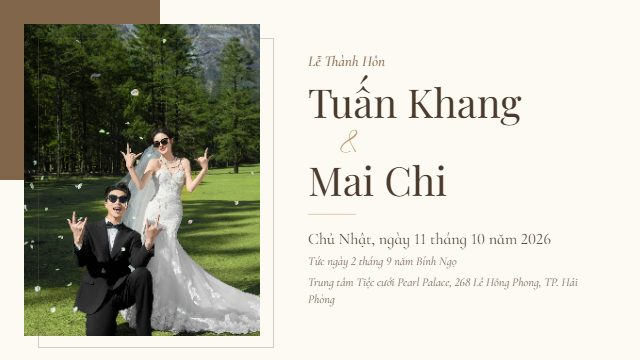
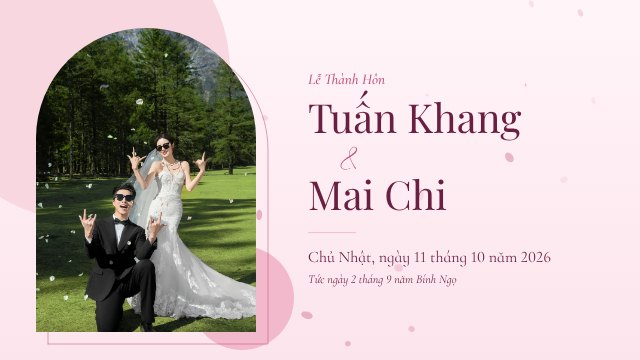
Slide cưới: mẫu "Mãi mãi về sau" đổi sang tông hồng, ảnh vòm bay vào, chữ bay vào, cánh hoa rơi
Claude-Session: https://claude.ai/code/session_01FJvBGnU4bpa9JAWDTxco5L

diff --git a/slide-cuoi/templates/romantic-blush/index.js b/slide-cuoi/templates/romantic-blush/index.js
@@ -1,17 +1,20 @@
-// Slide sân khấu "Mãi mãi về sau" (1280×720, tông be của romantic-blush): mỗi cảnh một bên
-// ảnh, một bên chữ, xen kẽ trái/phải. Từ thiệp chỉ lấy ảnh, họ tên, ngày cưới, chuyện tình —
-// không tên cha mẹ, không địa chỉ (khách đã ở tiệc); lời văn là của mẫu. Chỉ KHAI cảnh dưới
-// dạng dữ liệu (CX_SLIDE.scenes); vẽ/chạy/xuất là việc của engine + runtime + slide-export.js.
+// Slide sân khấu "Mãi mãi về sau" (1280×720, tông hồng): mỗi cảnh ảnh vòm cửa bay vào một bên,
+// chữ bay vào bên kia, xen kẽ trái/phải, cánh hoa rơi suốt slide. Từ thiệp chỉ lấy ảnh, họ tên,
+// ngày cưới, chuyện tình — không tên cha mẹ, không địa chỉ (khách đã ở tiệc); lời văn là của mẫu.
+// Chỉ KHAI cảnh (CX_SLIDE.scenes); vẽ/chạy/xuất là việc của engine + runtime + slide-export.js.
 
 (function () {
   const C = {
-    paper: "#FDFAF4",
-    surface: "#F7F1E7",
-    heading: "#4A3B2E",
-    body: "rgba(74, 59, 46, 0.88)",
-    accent: "#82664B",
-    gold: "#B8956A",
-    line: "rgba(107, 86, 68, 0.55)",
+    paper: "#FFF5F8",
+    paper2: "#FCE4EC",
+    surface: "#F8DCE5",
+    petal: "#F9D7E1",
+    blush: "#F2B8CB",
+    heading: "#6A1F40",
+    body: "rgba(84, 30, 56, 0.9)",
+    accent: "#C24F78",
+    rose: "#E58FAD",
+    line: "rgba(194, 79, 120, 0.7)",
   };
   const PLAY = '"Playfair Display", "Times New Roman", serif';
   const CORM = '"Cormorant Infant", "Times New Roman", serif';
@@ -85,11 +88,13 @@
     const scenes = [];
     const add = (sid, photo, blocks, opt = {}) => scenes.push(_scene(scenes.length, sid, photo, blocks, opt, L));
 
-    // Khối dùng lại nhiều lần.
-    const kicker = (text, n = 2) => ({ text, font: F.kicker, color: C.accent, lh: 1.2, anim: { k: "fade", d: d(n) } });
-    const title = (text, n = 3, font = F.title) => ({ text, font, color: C.heading, lh: 1.16, mt: 16, anim: { k: "up", d: d(n) } });
-    const rule = (n) => ({ line: true, w: 96, color: C.gold, mt: 28, anim: { k: "spread", d: d(n) } });
-    const para = (text, n, mt = 28, font = F.body) => ({ text, font, color: C.body, lh: 1.5, mt, anim: { k: "up", d: d(n) } });
+    // Khối dùng lại nhiều lần. Chữ bay vào một quãng ngắn từ phía cột chữ (from "in", _scene đổi
+    // thành left/right theo bên ảnh) — bay từ tận mép khung là chữ vắt ngang qua ảnh.
+    const fly = (n, dist = 140, t = 1.3) => ({ k: "fly", from: "in", dist, t, d: d(n) });
+    const kicker = (text, n = 2) => ({ text, font: F.kicker, color: C.accent, lh: 1.2, anim: fly(n, 90) });
+    const title = (text, n = 3, font = F.title) => ({ text, font, color: C.heading, lh: 1.16, mt: 16, anim: fly(n, 180, 1.5) });
+    const rule = (n) => ({ line: true, w: 96, color: C.rose, mt: 28, anim: { k: "spread", d: d(n) } });
+    const para = (text, n, mt = 28, font = F.body) => ({ text, font, color: C.body, lh: 1.5, mt, anim: fly(n, 80) });
     // Lời nói (cô dâu, chú rể, anh – em, gửi cha mẹ, cảm ơn): hiện bằng hiệu ứng đánh chữ.
     const say = (text, n, mt = 28) => ({ text, font: F.body, color: C.body, lh: 1.5, mt, anim: { k: "type", d: d(n) } });
     const sign = (text, n) => ({ text, font: F.sign, color: C.accent, lh: 1.2, mt: 28, anim: { k: "wipe", d: d(n) } });
@@ -101,14 +106,15 @@
     const date = cd
       ? `${_WEEKDAYS[cd.getDay()]}, ngày ${cd.getDate()} tháng ${cd.getMonth() + 1} năm ${cd.getFullYear()}`
       : "";
+    // Hai tên lần lượt bay vào từ mép phía chữ, hơi xoay rồi đứng lại; dấu & nở ra ở giữa.
     add("open", own(w.cover_image_url, fps.cover_image_url), [
       kicker(ceremonyName),
-      { text: G, font: F.names, color: C.heading, lh: 1.04, mt: 20, anim: { k: "up", d: d(3) } },
-      { text: "&", font: F.amp, color: C.gold, lh: 1, mt: 4, indent: 64, anim: { k: "fade", d: d(4) } },
-      { text: B, font: F.names, color: C.heading, lh: 1.04, mt: 4, anim: { k: "up", d: d(5) } },
-      rule(6),
-      date && { text: date, font: F.date, color: C.heading, lh: 1.3, mt: 28, anim: { k: "up", d: d(7) } },
-      w.ceremony_lunar && note(w.ceremony_lunar, 8),
+      { text: G, font: F.names, color: C.heading, lh: 1.04, mt: 20, anim: { k: "fly", from: "in", t: 1.6, rot: 6, d: d(3) } },
+      { text: "&", font: F.amp, color: C.accent, lh: 1, mt: 4, indent: 64, anim: { k: "zoom", s0: 2.4, d: d(8) } },
+      { text: B, font: F.names, color: C.heading, lh: 1.04, mt: 4, anim: { k: "fly", from: "in", t: 1.6, rot: -6, d: d(5) } },
+      rule(9),
+      date && { text: date, font: F.date, color: C.heading, lh: 1.3, mt: 28, anim: fly(10, 100) },
+      w.ceremony_lunar && note(w.ceremony_lunar, 11),
     ], { dur: 9, label: "Mở đầu" });
 
     // --- Lời chú rể, lời cô dâu gửi quan khách ---
@@ -175,7 +181,7 @@
 
     // --- Lời cảm ơn (cảnh cuối) ---
     add("thanks", own(w.cover_image_url, fps.cover_image_url), [
-      { text: "Thank you", font: F.script, color: C.accent, lh: 1.1, anim: { k: "wipe", d: d(2) } },
+      { text: "Thank you", font: F.script, color: C.accent, lh: 1.1, anim: { k: "wipe", d: d(3) } },
       rule(5),
       say("Sự hiện diện của quý vị hôm nay đã làm ngày vui của chúng con thêm trọn vẹn. Chúng con kính chúc quý vị luôn mạnh khoẻ, hạnh phúc và bình an.", 6),
       sign("Chú rể & Cô dâu", 8),
@@ -208,6 +214,9 @@
       return text.trim() ? { ...b, text, key } : null;
     };
     blocks = blocks.map((b, k) => apply(b, `${sid}.${k}`)).filter(Boolean);
+    const rev = i % 2 === 1;
+    // Chữ bay vào từ phía cột chữ: ảnh bên trái thì chữ đến từ bên phải và ngược lại.
+    blocks = blocks.map((b) => (b.anim?.from === "in" ? { ...b, anim: { ...b.anim, from: rev ? "left" : "right" } } : b));
 
     // Đánh chữ nối đuôi: đoạn sau chờ đoạn trước gõ xong, khối đứng sau (chữ ký)
     // chờ đoạn cuối. Thời điểm tính theo chữ ĐÃ SỬA nên đổi lời là nhịp tự giãn theo.
@@ -222,33 +231,51 @@
     const len = blocks.reduce((n, b) => n + (b.text ? String(b.text).length : 0), 0);
     // Có đánh chữ: giữ thêm 4 giây sau khi gõ xong để khách đọc lại và chữ ký kịp hiện.
     const dur = Math.max(opt.dur || Math.min(16, Math.max(8, 4 + len * 0.045)), typedEnd ? typedEnd + 4 : 0);
-    const rev = i % 2 === 1;
-    const PW = 520;
-
-    // Bên ảnh: khối màu nhấn lệch góc · ảnh · khung nét mảnh lệch đè lên — trượt vào cùng nhau.
-    // Ảnh khách tự tải lên ở mục "Ảnh trong slide" (L.photos, khoá = id cảnh) đè ảnh của thiệp.
-    const px = rev ? 1280 - PW : 0;
+    // Bên ảnh (bố cục cảnh ảnh trái; ảnh phải thì lật gương qua trục giữa): hai mảng tròn hồng
+    // bay vào từ góc · ảnh vòm cửa bay vào từ mép, hơi xoay rồi đứng lại · viền vòm mảnh lệch
+    // ra sau tự vẽ dần quanh ảnh. Ảnh khách tự tải ở mục "Ảnh trong slide" (L.photos, khoá = id
+    // cảnh) đè ảnh của thiệp. Mảng tròn là ô ảnh rỗng cắt tròn (chỉ tô màu `empty`).
+    const PX = 72;
+    const PY = 56;
+    const PW = 440;
+    const PH = 608;
+    const mx = (x, w) => (rev ? 1280 - x - w : x);
+    const side = rev ? "right" : "left";
     const def = photo.file ? getImageUrl(photo.file) : "";
     const mine = L.photos?.[sid];
     const src = mine?.src || getImageUrl(photo.file);
     const fp = mine ? mine.focal : photo.fp;
-    const photoEls = rev
-      ? [
-          { type: "rect", x: 1280 - 320, y: 360, w: 320, h: 360, fill: C.accent },
-          { type: "image", x: px, y: 48, w: PW - 48, h: 624, src, focal: fp, kb: true, empty: C.surface, edit: sid },
-          { type: "frame", x: px - 28, y: 24, w: PW - 76 + 28, h: 620, stroke: C.line },
-        ]
-      : [
-          { type: "rect", x: 0, y: 0, w: 320, h: 360, fill: C.accent },
-          { type: "image", x: 48, y: 48, w: PW - 48, h: 624, src, focal: fp, kb: true, empty: C.surface, edit: sid },
-          { type: "frame", x: 76, y: 76, w: PW - 76 + 28, h: 620, stroke: C.line },
-        ];
-    const group = { type: "group", x: px, y: 0, w: PW, h: 720, kids: photoEls, anim: { k: rev ? "right" : "left", d: 0 } };
+    const dot = (x, y, r, fill, from, dl) => ({ type: "image", src: "", shape: "circle", x: mx(x, r * 2), y, w: r * 2, h: r * 2, empty: fill, anim: { k: "fly", from, t: 1.8, d: dl } });
+    const ax = mx(PX + 24, PW);
+    const photoEls = [
+      dot(-140, -160, 300, C.petal, rev ? "tr" : "tl", 0),
+      dot(380, 492, 104, C.blush, "bottom", 0.25),
+      { type: "stroke", x: ax, y: PY + 24, w: PW, h: PH, paths: [_arch(ax, PY + 24, PW, PH)], color: C.line, lw: 1.5, anim: { k: "draw", t: 2.2, d: 1.1 } },
+      { type: "image", x: mx(PX, PW), y: PY, w: PW, h: PH, shape: "arch", src, focal: fp, kb: true, empty: C.surface, edit: sid, anim: { k: "fly", from: side, rot: rev ? 7 : -7, t: 1.7, d: 0.15 } },
+    ];
 
     // Bên chữ: cột rộng 592, canh giữa theo chiều dọc. Khối có `indent` (dấu &) lùi vào.
-    const tx = rev ? 72 : PW + 96;
-    const text = L.column(blocks, { x: tx, w: 592, top: 56, bottom: 720 - 56 });
+    const tx = rev ? 80 : 616;
+    const text = L.column(blocks, { x: tx, w: 584, top: 56, bottom: 720 - 56 });
     blocks.forEach((b, k) => b.indent && text[k] && (text[k].x += b.indent));
-    return { id: sid, dur, label: opt.label || "", texts, photo: { key: sid, def, w: PW - 48, h: 624 }, els: [group, ...text] };
+    return { id: sid, dur, label: opt.label || "", texts, photo: { key: sid, def, w: PW, h: PH }, els: [{ ..._BG }, { ..._PETALS }, ...photoEls, ...text] };
+  }
+
+  // Nền hồng chuyển nhẹ + cánh hoa rơi chậm: hai lớp tĩnh/tính theo giờ chung của cả vòng nên
+  // lúc chuyển cảnh nền đứng yên, cánh hoa rơi liền mạch.
+  const _BG = { type: "grad", x: 0, y: 0, w: 1280, h: 720, stops: [[0, C.paper], [1, C.paper2]] };
+  const _PETALS = { type: "drift", shape: "petal", n: 26, size: 20, speed: 30, sway: 48, color: [C.blush, C.rose, C.accent], alpha: 0.62, seed: 7 };
+
+  // Đường viền vòm cửa (cùng dáng shape "arch" của engine): mép trái từ đáy lên, nửa vòng tròn
+  // đỉnh, mép phải xuống đáy, khép lại ở đáy.
+  function _arch(x, y, w, h) {
+    const r = Math.min(w / 2, h);
+    const pts = [[x, y + h], [x, y + r]];
+    for (let k = 1; k <= 48; k++) {
+      const a = Math.PI + (Math.PI * k) / 48;
+      pts.push([x + w / 2 + Math.cos(a) * (w / 2), y + r + Math.sin(a) * r]);
+    }
+    pts.push([x + w, y + h], [x, y + h]);
+    return pts;
   }
 })();

diff --git a/core/config.js b/core/config.js
@@ -13,7 +13,7 @@ const USE_CACHE = true;
 // Bản thân file này KHÔNG mang `?v=` (nó là mỏ neo, phải đọc được version từ
 // nó trước đã) → trên Cloudflare phải có Cache Rule bypass `/core/config.js`,
 // nếu không đổi số ở đây cũng vô nghĩa.
-const CX_VERSION = "2026.11.10-6";
+const CX_VERSION = "2026.11.10-7";
  
 // Thẻ <link> CSS viết cứng trong HTML không tự mang `?v=` → dễ rơi vào cảnh
 // HTML/partial đã là bản mới mà CSS vẫn là bản cũ (trang không vỡ, chỉ sai bố

diff --git a/slide-cuoi/templates/romantic-blush/index.html b/slide-cuoi/templates/romantic-blush/index.html
@@ -25,7 +25,7 @@
     <script src="/core/helpers/no-inspect.js"></script>
   </head>
 
-  <!-- Slide sân khấu 16:9 tông be: cảnh khai trong index.js, runtime vẽ lên canvas trong #sl-stage. -->
+  <!-- Slide sân khấu 16:9 tông hồng: cảnh khai trong index.js, runtime vẽ lên canvas trong #sl-stage. -->
   <body>
     <div id="sl-backdrop"></div>
     <div id="sl-stage"></div>

diff --git a/slide-cuoi/templates.js b/slide-cuoi/templates.js
@@ -6,7 +6,7 @@ window.CX_SLIDE_TEMPLATES = [
   {
     id: "romantic-blush",
     name: "Mãi mãi về sau",
-    desc: "Tông be, ảnh một bên, chữ một bên",
+    desc: "Tông hồng, ảnh vòm cửa bay vào, cánh hoa rơi",
     ratio: "16 / 9",
     thumb: "/slide-cuoi/templates/romantic-blush/thumb.jpg",
   },

diff --git a/docs/PLAN-slide-cuoi.md b/docs/PLAN-slide-cuoi.md
@@ -12,8 +12,9 @@
 > Xưng hô trong lời văn: cô dâu, chú rể nói với quan khách và cha mẹ thì xưng **"con"**; chú rể
 > nói với cô dâu là **"anh"**, cô dâu nói với chú rể là **"em"**. **Không chèn họ tên vào lời văn**
 > — tên chỉ đứng riêng ở cảnh mở đầu.
-> Mẫu đầu tiên: `templates/romantic-blush/` ("Mãi mãi về sau") — 16:9, mượn bảng màu + bộ chữ
-> của mẫu thiệp romantic-blush. Mẫu thứ hai: `templates/mai-ben-nhau/` ("Mãi Bên Nhau") — bố
+> Mẫu đầu tiên: `templates/romantic-blush/` ("Mãi mãi về sau") — 16:9 tông hồng, mượn bộ chữ
+> của mẫu thiệp romantic-blush: ảnh vòm cửa bay vào một bên (viền vòm tự vẽ, mảng tròn hồng phía
+> sau), chữ bay vào bên kia, cánh hoa rơi suốt slide. Mẫu thứ hai: `templates/mai-ben-nhau/` ("Mãi Bên Nhau") — bố
 > cục tạp chí (nền hồng xám, mảng nâu be lệch sau ảnh, tiêu đề tiếng Anh viết hoa dãn rộng,
 > chữ dọc sát mép), mỗi cảnh nhiều ảnh bay từ ngoài khung vào. **Thiệp ít ảnh hơn số khung thì
 > ảnh LẶP VÒNG cho đủ** — không bớt cảnh, không để khung trống. Mẫu này theo LỜI CÔ DÂU: sau Mở đầu + Đôi
